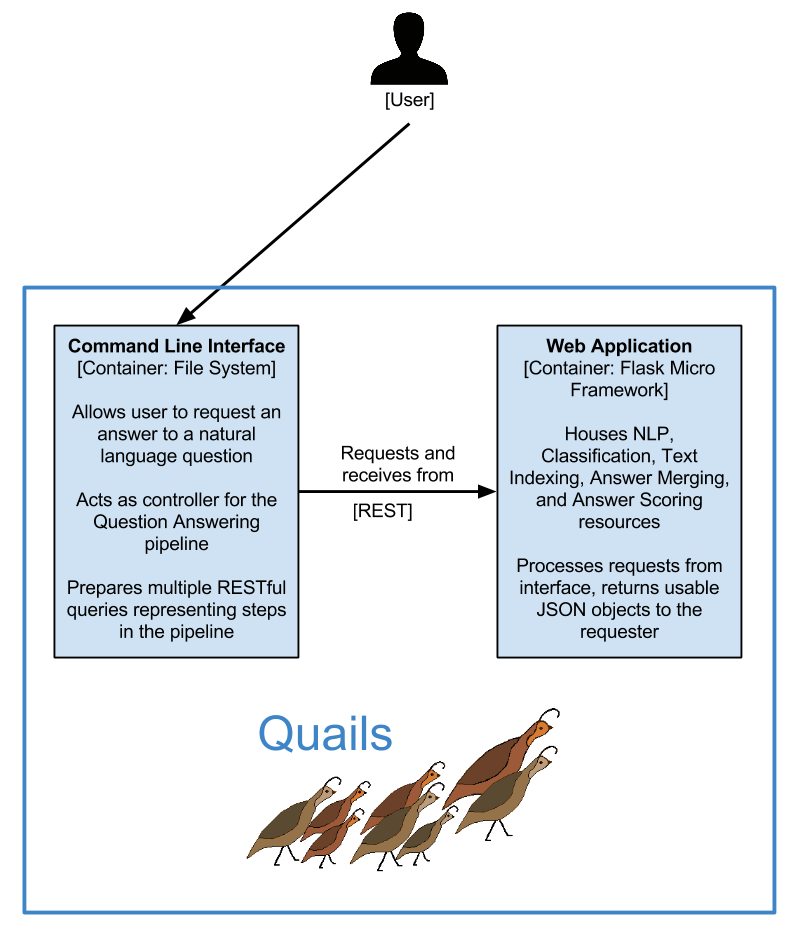
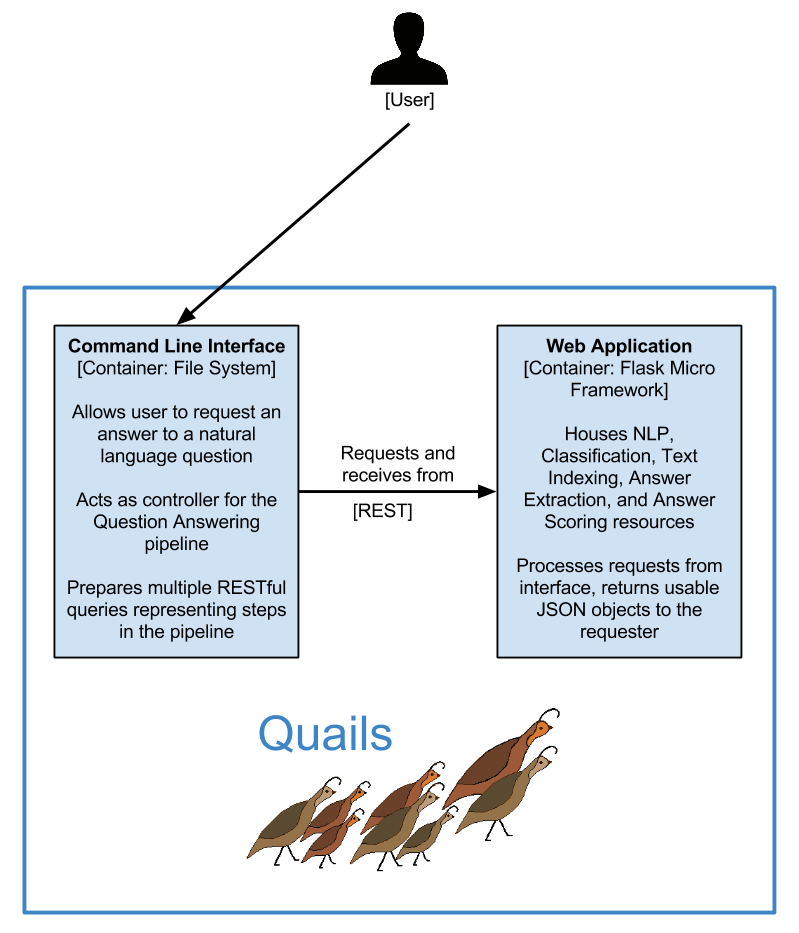
added component view diagram to overview

Changed region(s): [[0.6308, 0.4973, 0.9011, 0.5906]]

diff --git a/docs/intro.rst b/docs/intro.rst
@@ -17,7 +17,7 @@ A high level example of a question answering pipeline, represented as a list, is
 7.  Rate the answers based on how likely they are to answer the question.
 8.  Return the answers and their scores to the user. 
 
-The system is comprised of two primary parts. The first component is a Flask server providing question answering pipeline services such as NLP, classification, text indexing, answer consolidation and scoring.  
+The system is comprised of two primary parts. The first component is a Flask server providing question answering pipeline services such as NLP, classification, text indexing, answer extraction, and answer scoring.  
 
 The second component is an interface program which receives a natural language question from the user and acts as a controller for the question answering pipeline in order to produce an answer.
 

diff --git a/docs/overview.rst b/docs/overview.rst
@@ -19,3 +19,10 @@ This page provides multiple views of the Quails Question Answering Framework.
 	:scale: 65
 
 	Container view of Quails framework
+
+.. figure:: images/QuailsComponents.png
+	:align: center
+	:alt: Component View
+	:scale: 65
+
+	Component view of Quails framework
